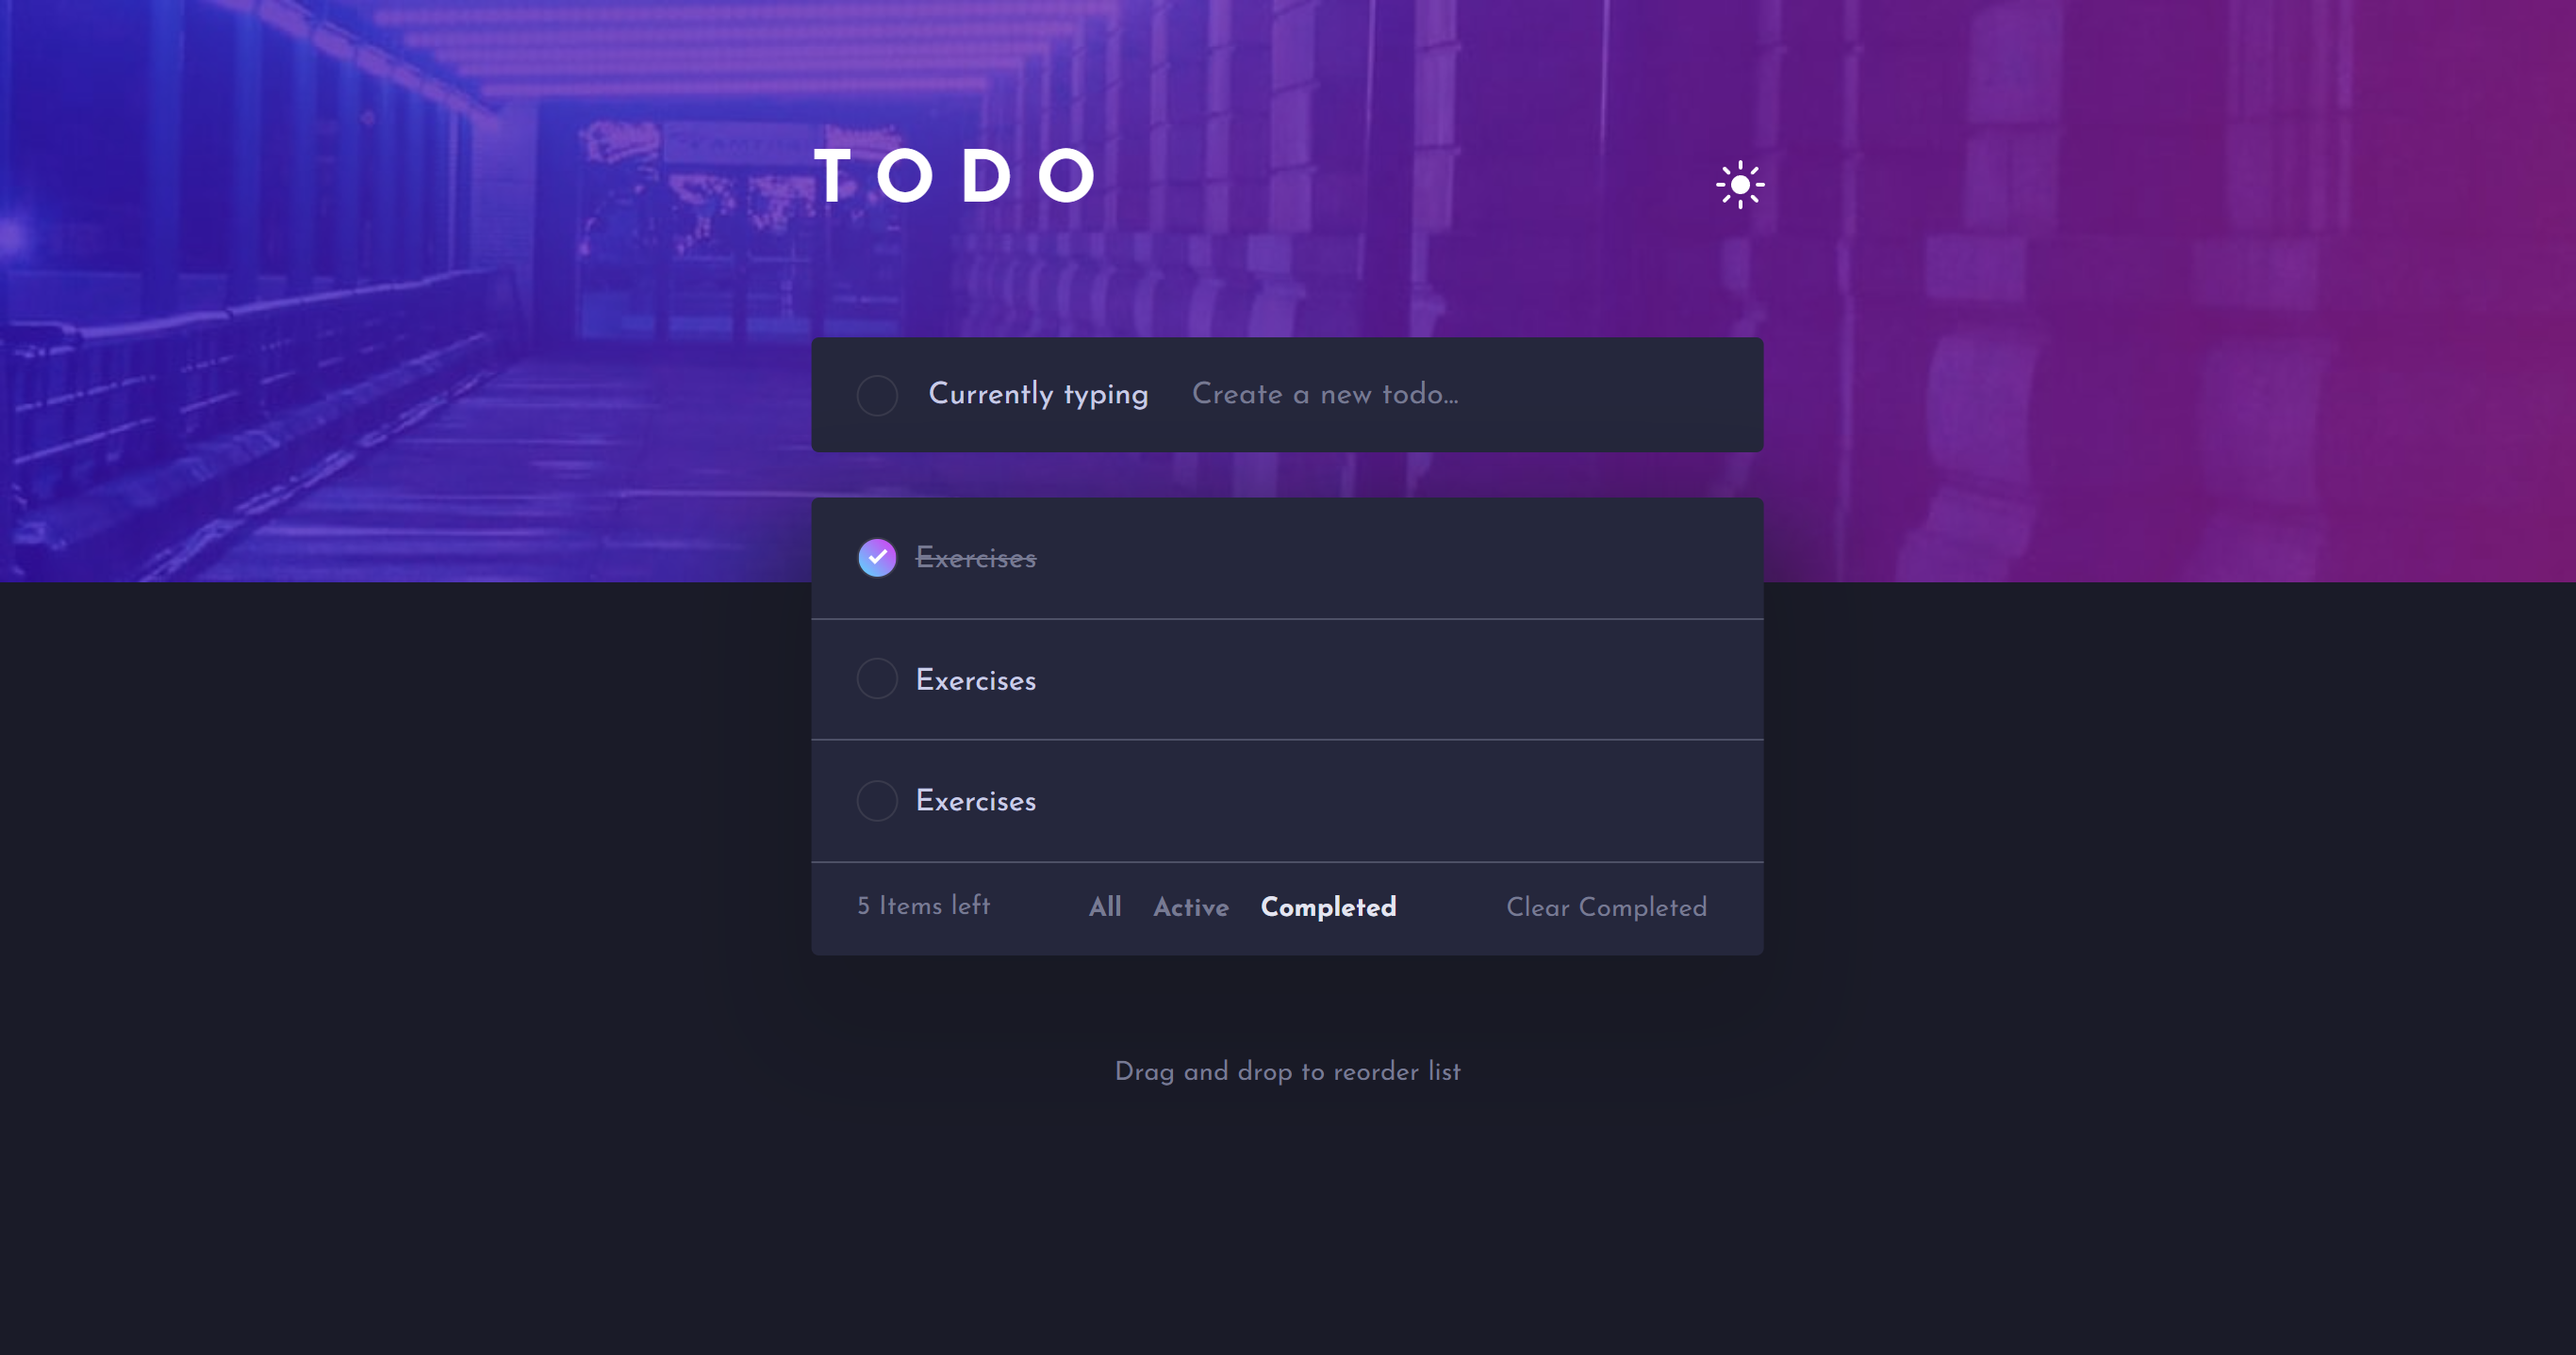
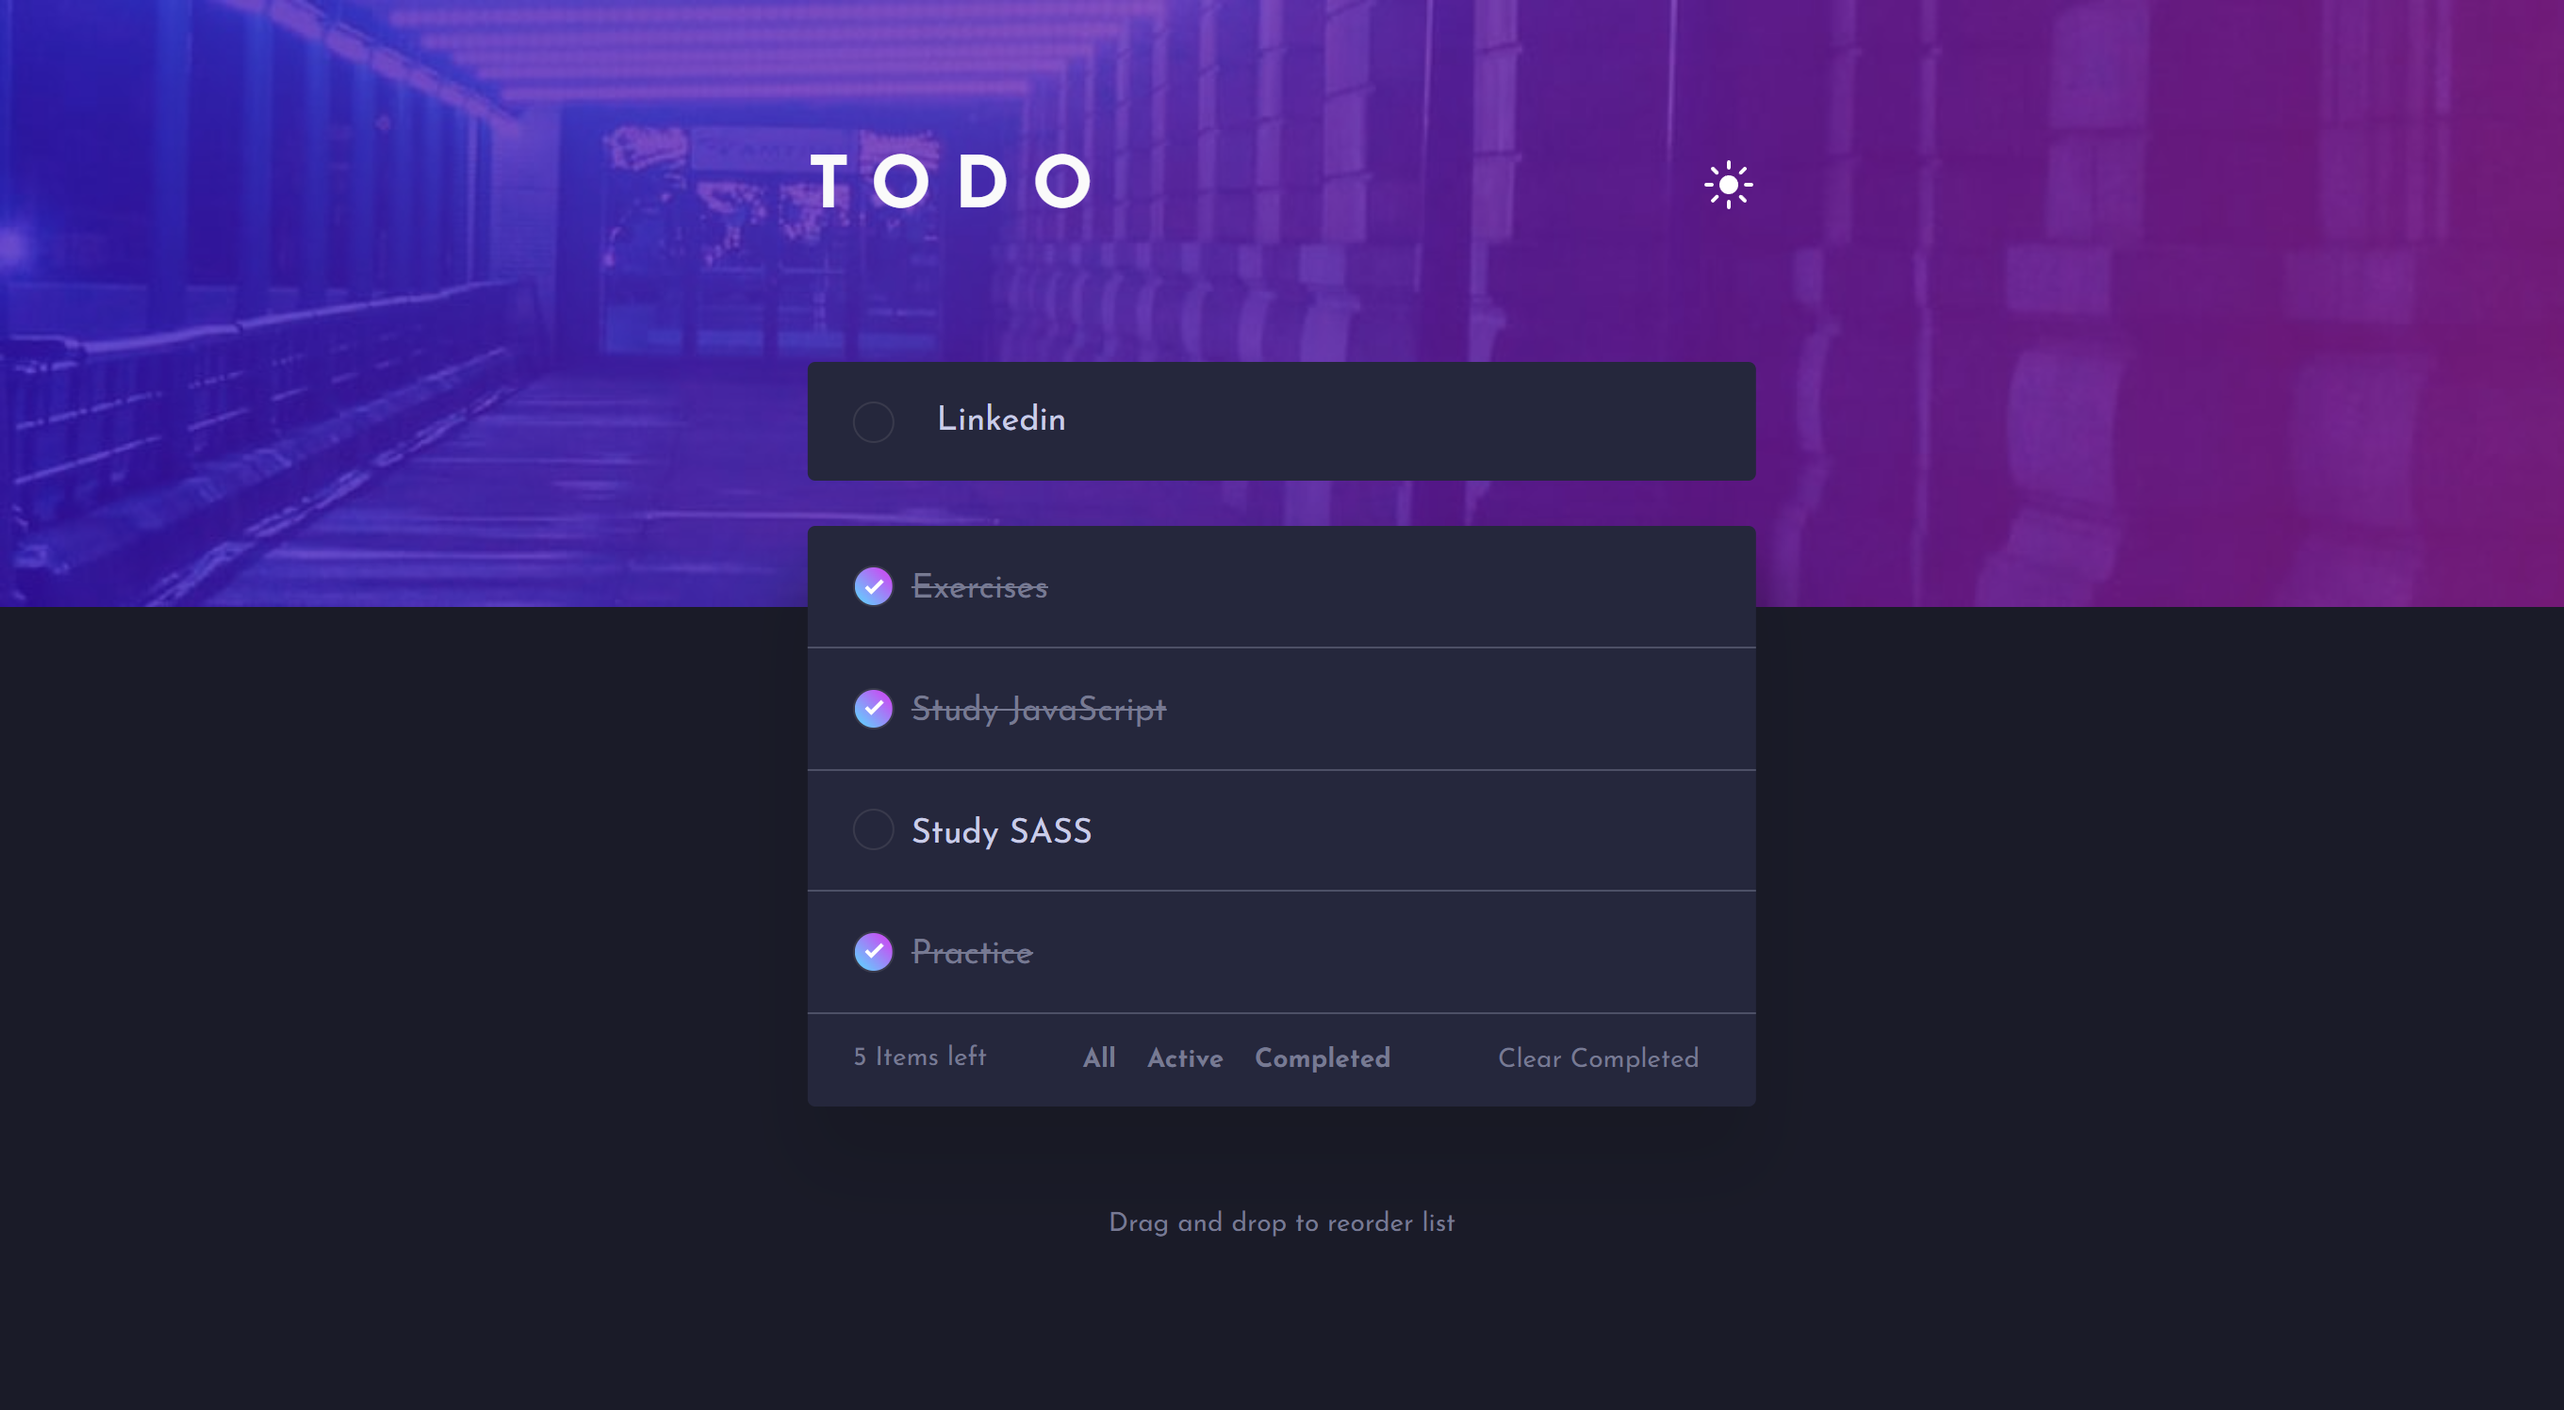
docs readme update

diff --git a/README.md b/README.md
@@ -41,8 +41,12 @@ Os usuários devem ser capazes de:
 <html>
   <h4>Layout mobile tema padrão</h4>
   <img src="./assets/img/mobile-layout.png" width="300px">
+  <h4>Layout mobile tema claro</h4>
+  <img src="./assets/img/mobile-layout-light.png" width="300px">
   <h4>Layout desktop tema padrão</h4>
   <img src="./assets/img/desktop-layout.png" width="920px">
+  <h4>Layout desktop tema claro</h4>
+  <img src="./assets/img/desktop-layout-light.png" width="920px">
   <!-- 
   <h4>Layout mobile tema claro </h4>
   <img src="./assets/.png" width="300px">
@@ -53,29 +57,29 @@ Os usuários devem ser capazes de:
 ## Minha caminhada
 
 1º dia
-- [x] Layout mobile
+- [x] Preparativos em mobile first
 
 2º dia
+- [x] Layout mobile
+
+3º dia
 - [x] Layout desktop
 - [x] Estados de foco
 
-3º dia
-- [ ] Feature de temas
-- [ ] Feature de adicionar tarefas
-
 4º dia
+- [x] Feature de temas
+- [x] Feature de adicionar tarefas
+
+5º dia
 - [ ] Feature de marcar tarefas
 - [ ] Feature de excluir uma tarefa
 
-
-5º dia
+6º dia
 - [ ] Feature de filtar tarefas
 - [ ] Feature de limpar todas tarefas
 
-6º dia
+7º dia
 - [ ] Feature de arrastar tarefas
-
-7º dia 
 - [ ] Refatoração
 
 ### Propriedades
